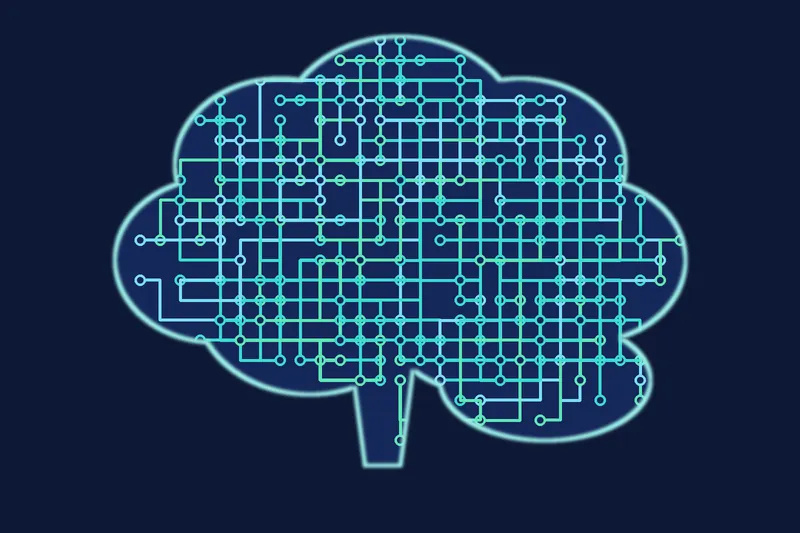
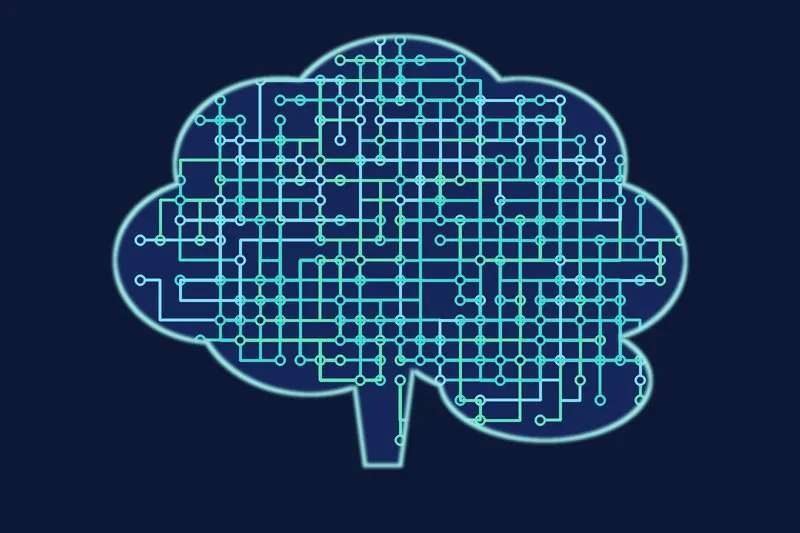
perf(imagens): WebP com reserva, duas larguras e carregamento preguiçoso
Usa picture com source WebP e img JPG/PNG de reserva, srcset de 400 e 800 px com sizes, loading lazy fora da primeira tela e decoding async. WebP recomprimido (qualidade 80). A grade do CSS passa a mirar o picture.

diff --git a/js/modules/views.js b/js/modules/views.js
@@ -17,7 +17,10 @@
 			get html() {
 				return String.raw`<section class="secao-livro" id="quem-somos">
 	<h2>Quem somos</h2>
-	<img src="../imagens/quem-somos.jpg" alt="Ilustração de um cérebro formado por linhas de circuito eletrônico" width="800" height="533">
+	<picture>
+		<source type="image/webp" srcset="../imagens/quem-somos-400.webp 400w, ../imagens/quem-somos.webp 800w" sizes="(min-width: 1024px) 40vw, 100vw">
+		<img src="../imagens/quem-somos.jpg" srcset="../imagens/quem-somos-400.jpg 400w, ../imagens/quem-somos.jpg 800w" sizes="(min-width: 1024px) 40vw, 100vw" alt="Ilustração de um cérebro formado por linhas de circuito eletrônico" width="800" height="533" decoding="async">
+	</picture>
 	<div class="texto">
 		<p>Olá, caros visitantes!</p>
 		<p>Somos a equipe de pesquisa em neurociências digitais sob o nome Selenium. Sejam bem-vindos à nossa casa.</p>
@@ -27,7 +30,10 @@
 
 <section class="secao-livro" id="objetivo">
 	<h2>Nosso objetivo</h2>
-	<img src="../imagens/objetivo.jpg" alt="Criança e adulto usando um tablet juntos, com um pesquisador ao lado" width="800" height="533">
+	<picture>
+		<source type="image/webp" srcset="../imagens/objetivo-400.webp 400w, ../imagens/objetivo.webp 800w" sizes="(min-width: 1024px) 40vw, 100vw">
+		<img src="../imagens/objetivo.jpg" srcset="../imagens/objetivo-400.jpg 400w, ../imagens/objetivo.jpg 800w" sizes="(min-width: 1024px) 40vw, 100vw" alt="Criança e adulto usando um tablet juntos, com um pesquisador ao lado" width="800" height="533" loading="lazy" decoding="async">
+	</picture>
 	<div class="texto">
 		<p>Nosso objetivo é desenvolver tecnologias que ajudem na pesquisa, no tratamento e no apoio a pessoas com diferentes tipos de neurodivergência. Queremos adaptar o mundo ao contexto que melhor atenda cada pessoa, estimulando e apoiando as tarefas do dia a dia.</p>
 	</div>
@@ -35,7 +41,10 @@
 
 <section class="secao-livro" id="ajudar">
 	<h2>Como nos ajudar</h2>
-	<img src="../imagens/pix-qrcode.png" alt="QR Code de exemplo para doação via Pix" width="400" height="400">
+	<picture>
+		<source type="image/webp" srcset="../imagens/pix-qrcode.webp">
+		<img src="../imagens/pix-qrcode.png" alt="QR Code de exemplo para doação via Pix" width="400" height="400" loading="lazy" decoding="async">
+	</picture>
 	<div class="texto">
 		<p>Venha fazer parte da Selenium! Você pode ajudar de várias formas:</p>
 		<ul>
@@ -74,7 +83,10 @@
 	<ol>
 		${T.lista(D.passosPix, T.item)}
 	</ol>
-	<img class="qrcode" src="../imagens/pix-qrcode.png" alt="QR Code de exemplo para doação via Pix" width="400" height="400">
+	<picture>
+		<source type="image/webp" srcset="../imagens/pix-qrcode.webp">
+		<img class="qrcode" src="../imagens/pix-qrcode.png" alt="QR Code de exemplo para doação via Pix" width="400" height="400" loading="lazy" decoding="async">
+	</picture>
 	<p><a class="botao botao-destaque" href="#/cadastro">Quero ajudar</a></p>
 </section>
 `;

diff --git a/css/estilos.css b/css/estilos.css
@@ -128,6 +128,10 @@ body {
 	background-color: var(--cor-fundo);
 }
 
+picture {
+	display: block;
+}
+
 img {
 	display: block;
 	max-width: 100%;
@@ -906,7 +910,7 @@ address {
 		grid-column: span 4;
 	}
 
-	.secao-livro > img {
+	.secao-livro > picture {
 		grid-column: span 5;
 	}
 

diff --git a/README.md b/README.md
@@ -48,7 +48,7 @@ Para só abrir o site, não há nada para instalar: o Chart.js já está em `js/
 2. Gere a build: `npm run build`
 3. Abra `dist/html/index.html` no navegador, também sem servidor
 
-O script `scripts/build.mjs` lê a ordem dos módulos do próprio `html/index.html`, junta e minifica o JavaScript em `dist/js/app.min.js` (esbuild), minifica o CSS em `dist/css/estilos.min.css` (esbuild) e o HTML (html-minifier-terser), e copia o Chart.js e as imagens. O Chart.js fica fora do bundle porque já vem minificado e muda raramente. No fim, o script imprime a tabela de tamanhos. Resultado atual: CSS 19,7% menor, JavaScript 41,1% menor e HTML 27,6% menor (33,1% no total, 31,6% com gzip), e 11 requisições de script viram 2. A pasta `dist/` fica no repositório para o site abrir direto, sem precisar gerar a build.
+O script `scripts/build.mjs` lê a ordem dos módulos do próprio `html/index.html`, junta e minifica o JavaScript em `dist/js/app.min.js` (esbuild), minifica o CSS em `dist/css/estilos.min.css` (esbuild) e o HTML (html-minifier-terser), e copia o Chart.js e as imagens. O Chart.js fica fora do bundle porque já vem minificado e muda raramente. No fim, o script imprime a tabela de tamanhos. Resultado atual: CSS 19,7% menor, JavaScript 40,3% menor e HTML 27,6% menor (32,7% no total, 31,4% com gzip), e 11 requisições de script viram 2. A pasta `dist/` fica no repositório para o site abrir direto, sem precisar gerar a build.
 
 Para atualizar o Chart.js: `npm install chart.js` e copie `node_modules/chart.js/dist/chart.umd.js` para `js/vendor/`.
 
@@ -69,7 +69,7 @@ Ainda não há testes automatizados. Os testes são manuais:
 
 - `html/`: o único arquivo HTML (`index.html`)
 - `css/`: `estilos.css`, com o design system
-- `imagens/`: imagens do site em dois formatos cada
+- `imagens/`: imagens do site em WebP, com JPG/PNG de reserva e uma versão de 400 px de largura para telas pequenas
 - `js/main.js`: ponto de entrada, só inicia o site
 - `js/modules/`: um arquivo por responsabilidade: `dados`, `templates`, `mascaras`, `validacao`, `armazenamento`, `grafico`, `views`, `router` e `eventos`
 - `js/vendor/`: biblioteca de terceiros (Chart.js) e a sua licença
